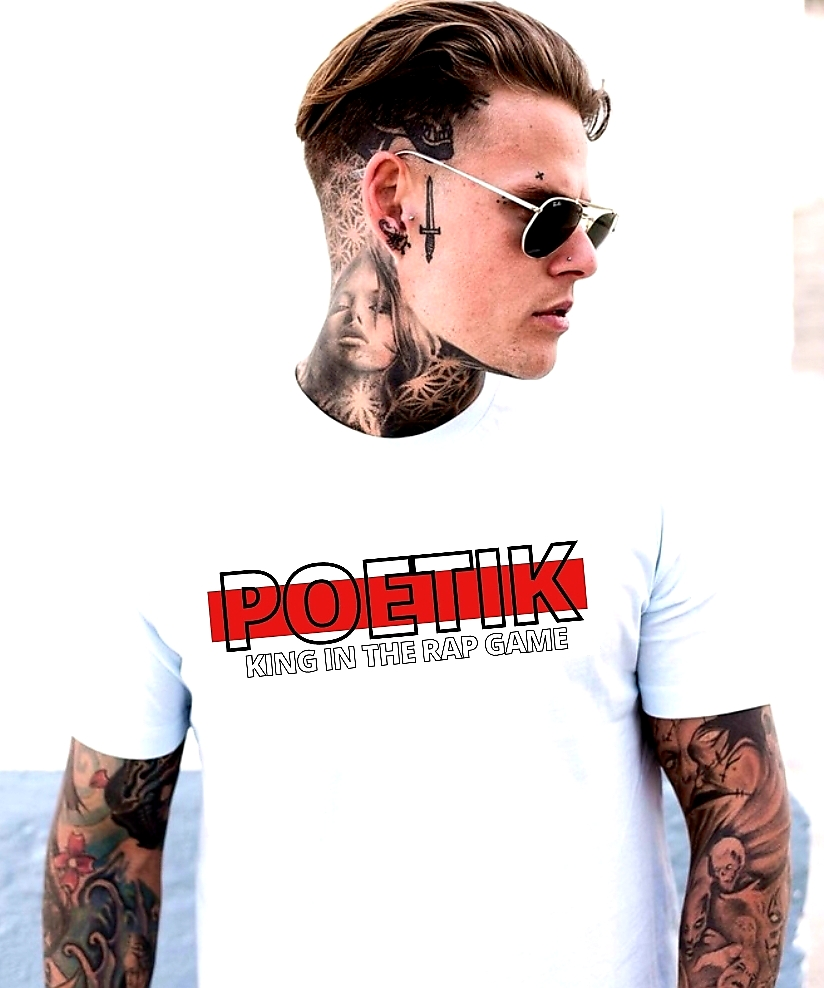
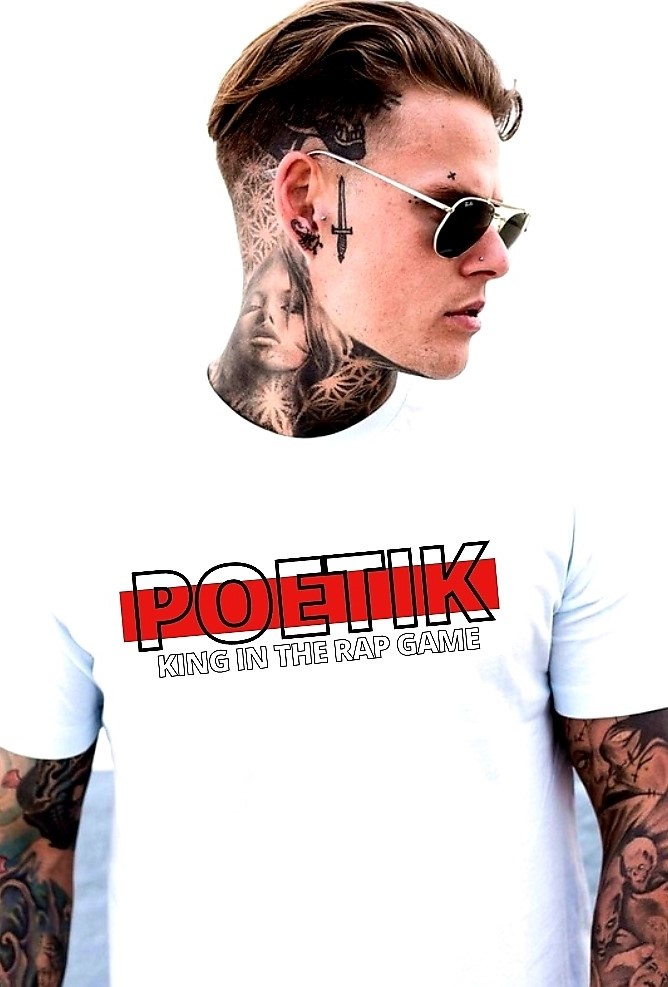
made merch pictures fit cards

diff --git a/wp-content/themes/poetiktheme/dist/app.css b/wp-content/themes/poetiktheme/dist/app.css
@@ -796,6 +796,9 @@ img {
             animation-name: moveUpMobile;
   }
 }
+.shop__image {
+  transform: scale(1.44);
+}
 .shop__image:hover {
   transform: scale(2.5);
   transition: transform 2s ease;

diff --git a/wp-content/themes/poetiktheme/src/app.scss b/wp-content/themes/poetiktheme/src/app.scss
@@ -795,7 +795,7 @@ img {
 }
 
 .shop__image {
-    // transform: scale(1.44);
+    transform: scale(1.44);
     &:hover {
         transform: scale(2.5);
         transition: transform 2s ease;
